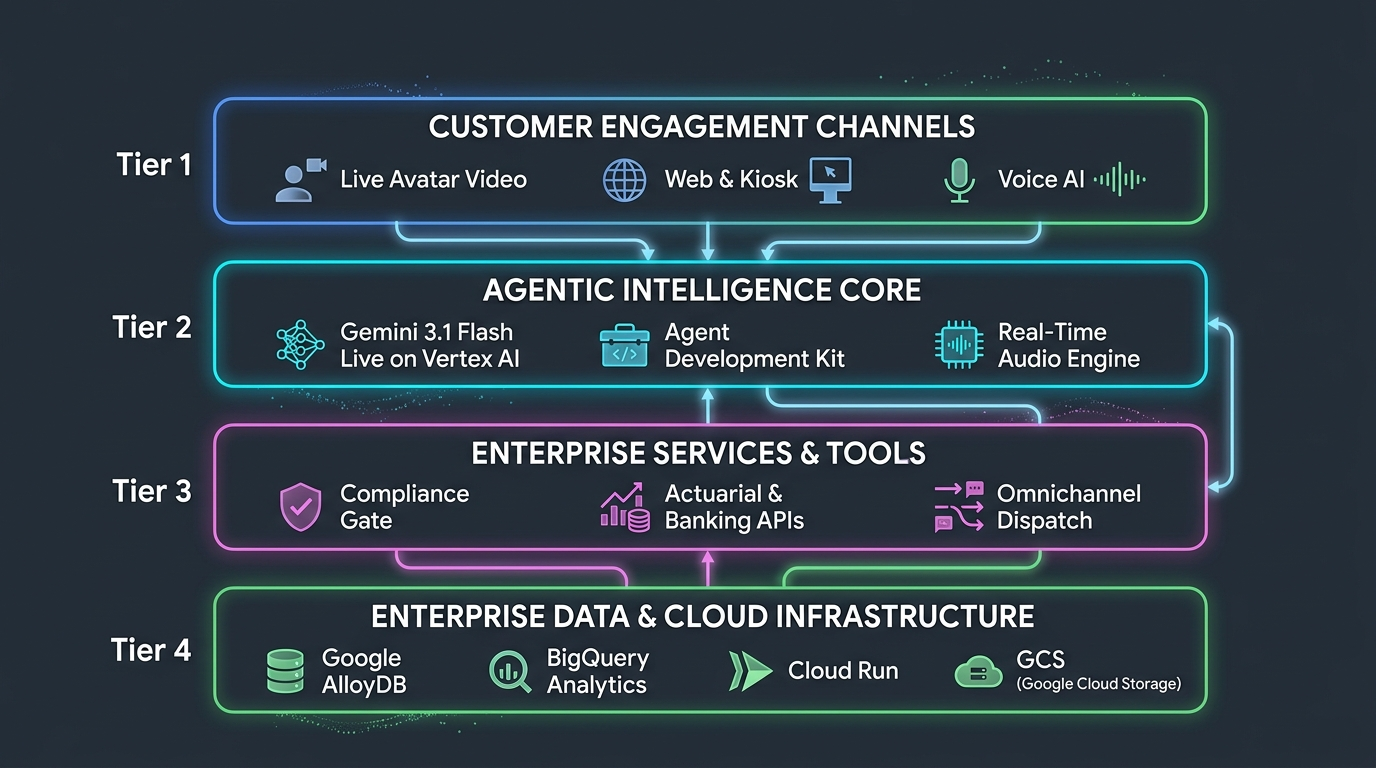
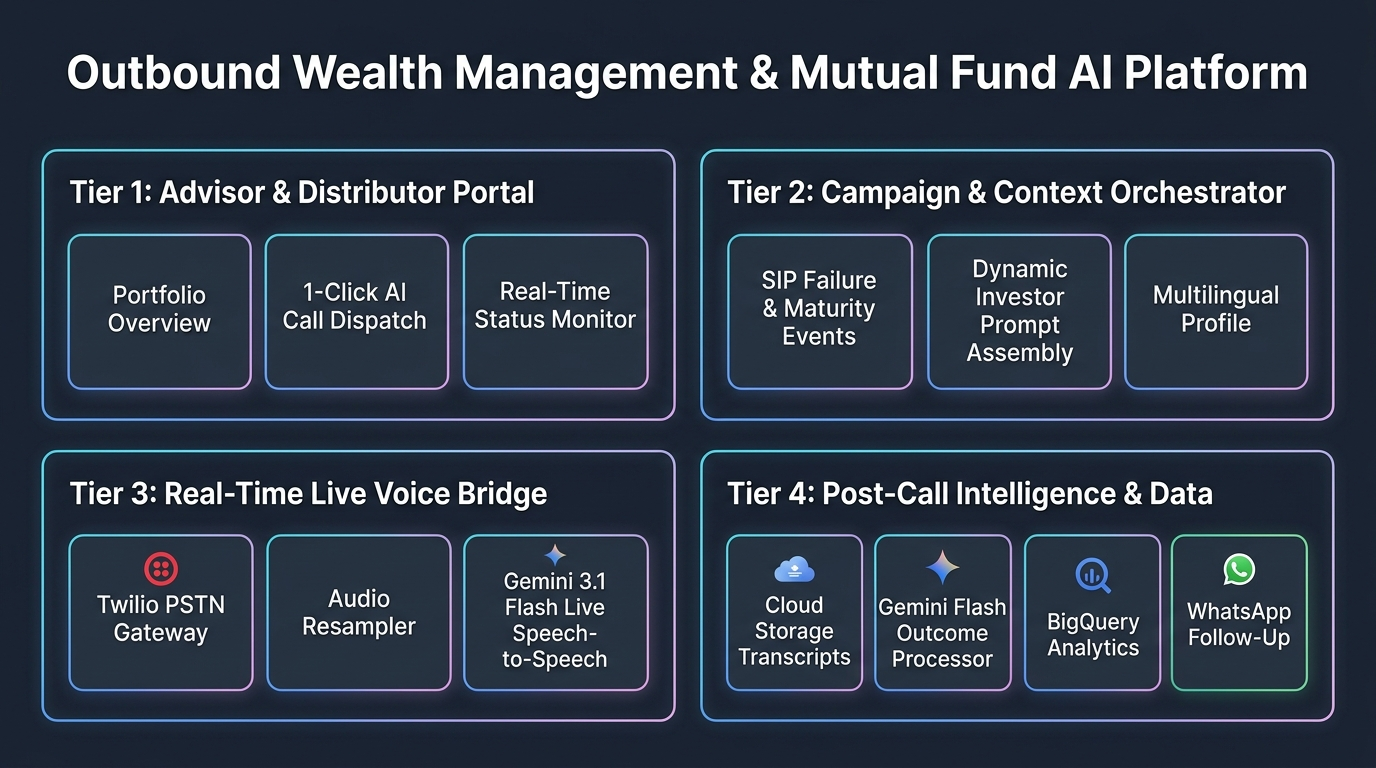
docs: align high-level 4-tier system architecture diagram with platform codebase

diff --git a/README.md b/README.md
@@ -23,45 +23,44 @@ The platform automates the end-to-end investor advisory and distribution lifecyc
 
 ## 🏛 High-Level System Architecture
 
-![High-Level System Architecture](assets/system_architecture.png)
+![Outbound Wealth Management & Mutual Fund AI Platform Architecture](assets/system_architecture.png)
 
 ```mermaid
-flowchart TD
-    subgraph Data_Layer["1. Data & Event Sources"]
-        BQ[(BigQuery: Portfolios & Transactions)]
-        GCS[(Google Cloud Storage: Voice Notes & Transcripts)]
+graph TD
+    subgraph Tier1["Tier 1: Advisor & Distributor Portal"]
+        P1["Portfolio Overview"]
+        P2["1-Click AI Call Dispatch"]
+        P3["Real-Time Status Monitor"]
     end
 
-    subgraph Agentic_Core["2. Agentic Pipeline & Governance"]
-        TE[Trigger Engine: Portfolio Event Detection]
-        CG[Compliance Gate: SEBI Rules & Risk Suitability]
-        OP[Outcome Processor: Post-Call Analytics & CRM Sync]
+    subgraph Tier2["Tier 2: Campaign & Context Orchestrator"]
+        C1["SIP Failure & Maturity Events"]
+        C2["Dynamic Investor Prompt Assembly"]
+        C3["Multilingual Profile & Accent Rules"]
     end
 
-    subgraph Live_Streaming["3. Real-Time Multimodal Communication"]
-        Broker[LiveAPI Broker: FastAPI + WebSockets]
-        Gemini[Gemini 3.1 Flash Live on Vertex AI]
-        Twilio[Twilio Voice & WhatsApp Business API]
-        Avatar[Video Avatar & Speech Engine]
+    subgraph Tier3["Tier 3: Real-Time Live Voice Bridge"]
+        V1["Twilio PSTN Telephony Gateway"]
+        V2["Bidirectional Audio Resampler (8kHz ↔ 16kHz/24kHz)"]
+        V3["Gemini 3.1 Flash Live Speech-to-Speech Engine"]
     end
 
-    subgraph Presentation_Layer["4. User & Advisor Interfaces"]
-        Investor([Investor Phone / Video Call])
-        Dashboard[Advisor Command Dashboard: Web Portal]
+    subgraph Tier4["Tier 4: Post-Call Intelligence & Data"]
+        D1["Cloud Storage Transcripts"]
+        D2["Gemini Flash Outcome Processor"]
+        D3["BigQuery Analytics & Audit Trails"]
+        D4["Twilio WhatsApp VIP Follow-Up"]
     end
 
-    BQ --> TE
-    TE --> CG
-    CG -->|Approved Leads| Broker
-    Broker <-->|Bidirectional Audio/fMP4| Gemini
-    Broker <-->|Inbound/Outbound PSTN| Twilio
-    Twilio <--> Investor
-    Broker <--> Avatar
-    Broker -->|Call Artifacts| GCS
-    GCS --> OP
-    OP -->|Structured Insights| BQ
-    BQ --> Dashboard
-    Dashboard -->|Manual Trigger| Broker
+    Tier1 -->|Campaign / Call Trigger| Tier2
+    Tier2 -->|Dynamic Session Context| Tier3
+    Tier3 -->|Call Transcripts & Audio| Tier4
+    Tier4 -->|Structured Outcomes & Metrics| Tier1
+
+    style Tier1 fill:#0f172a,stroke:#38bdf8,stroke-width:2px,color:#fff
+    style Tier2 fill:#0c4a6e,stroke:#0ea5e9,stroke-width:2px,color:#fff
+    style Tier3 fill:#3b0764,stroke:#c084fc,stroke-width:2px,color:#fff
+    style Tier4 fill:#022c22,stroke:#10b981,stroke-width:2px,color:#fff
 ```
 
 ---
